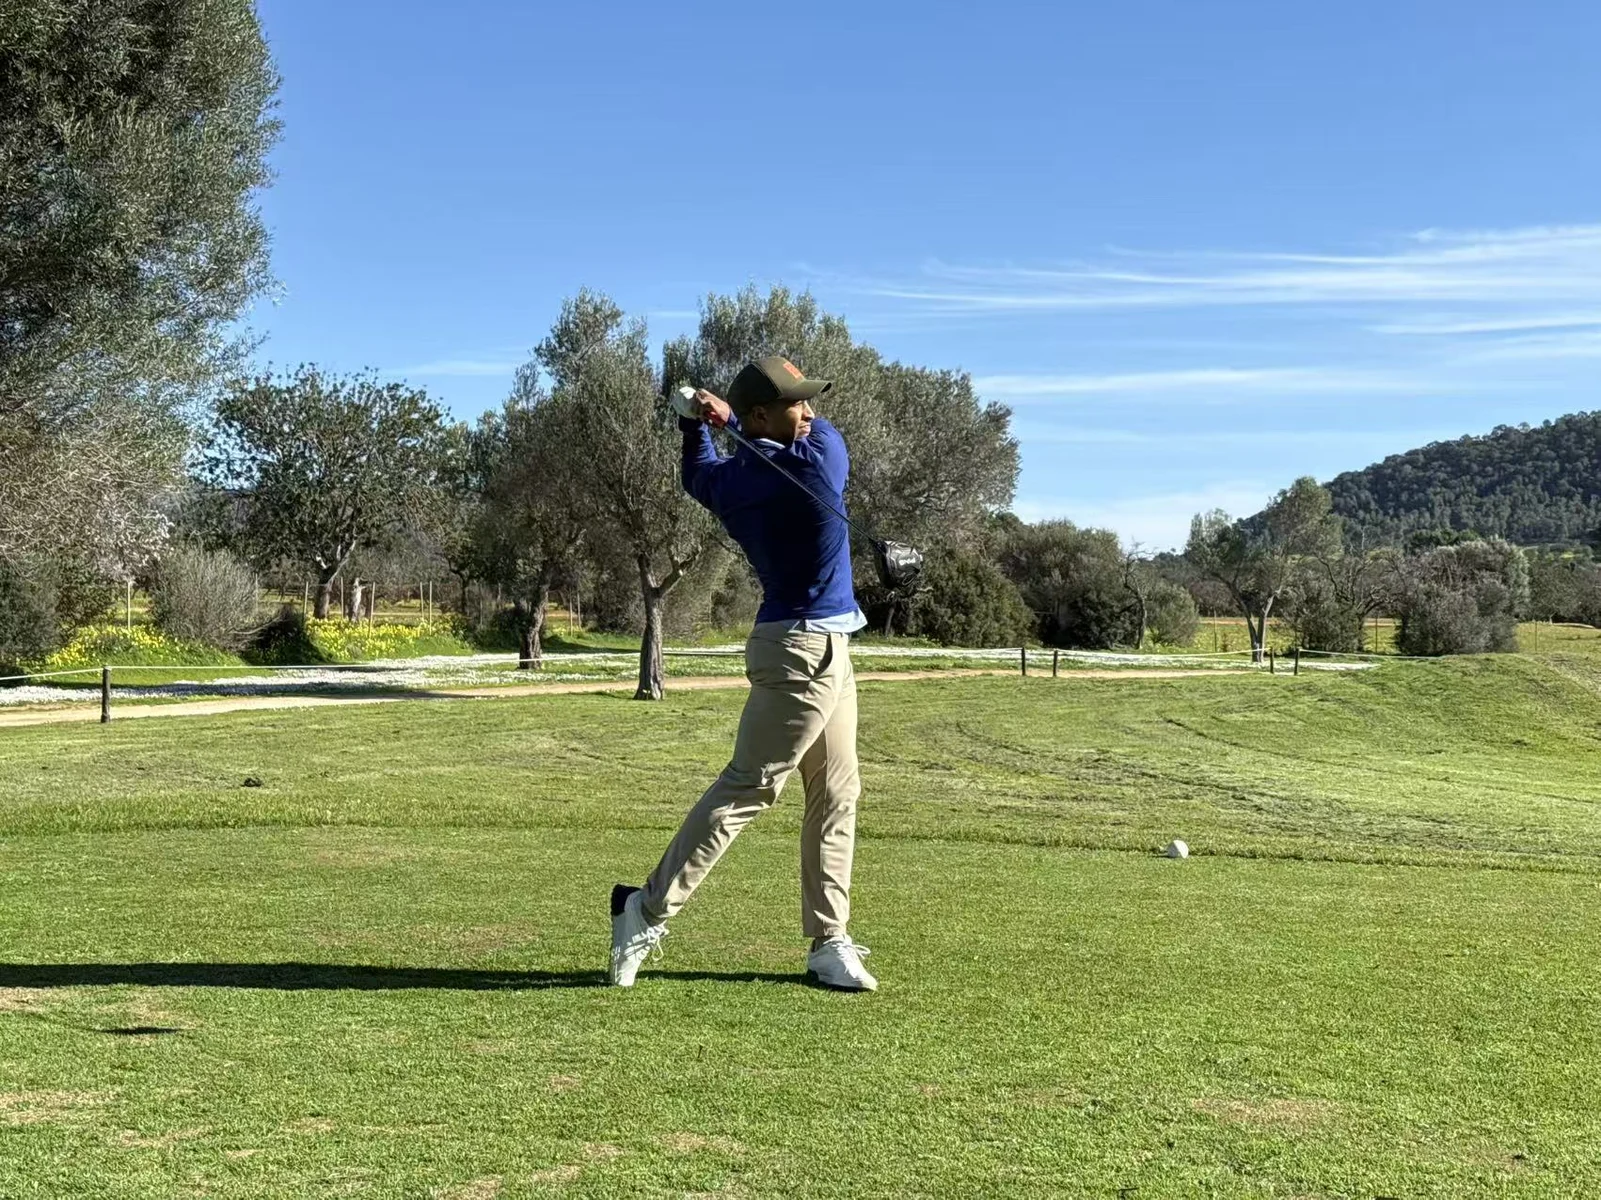
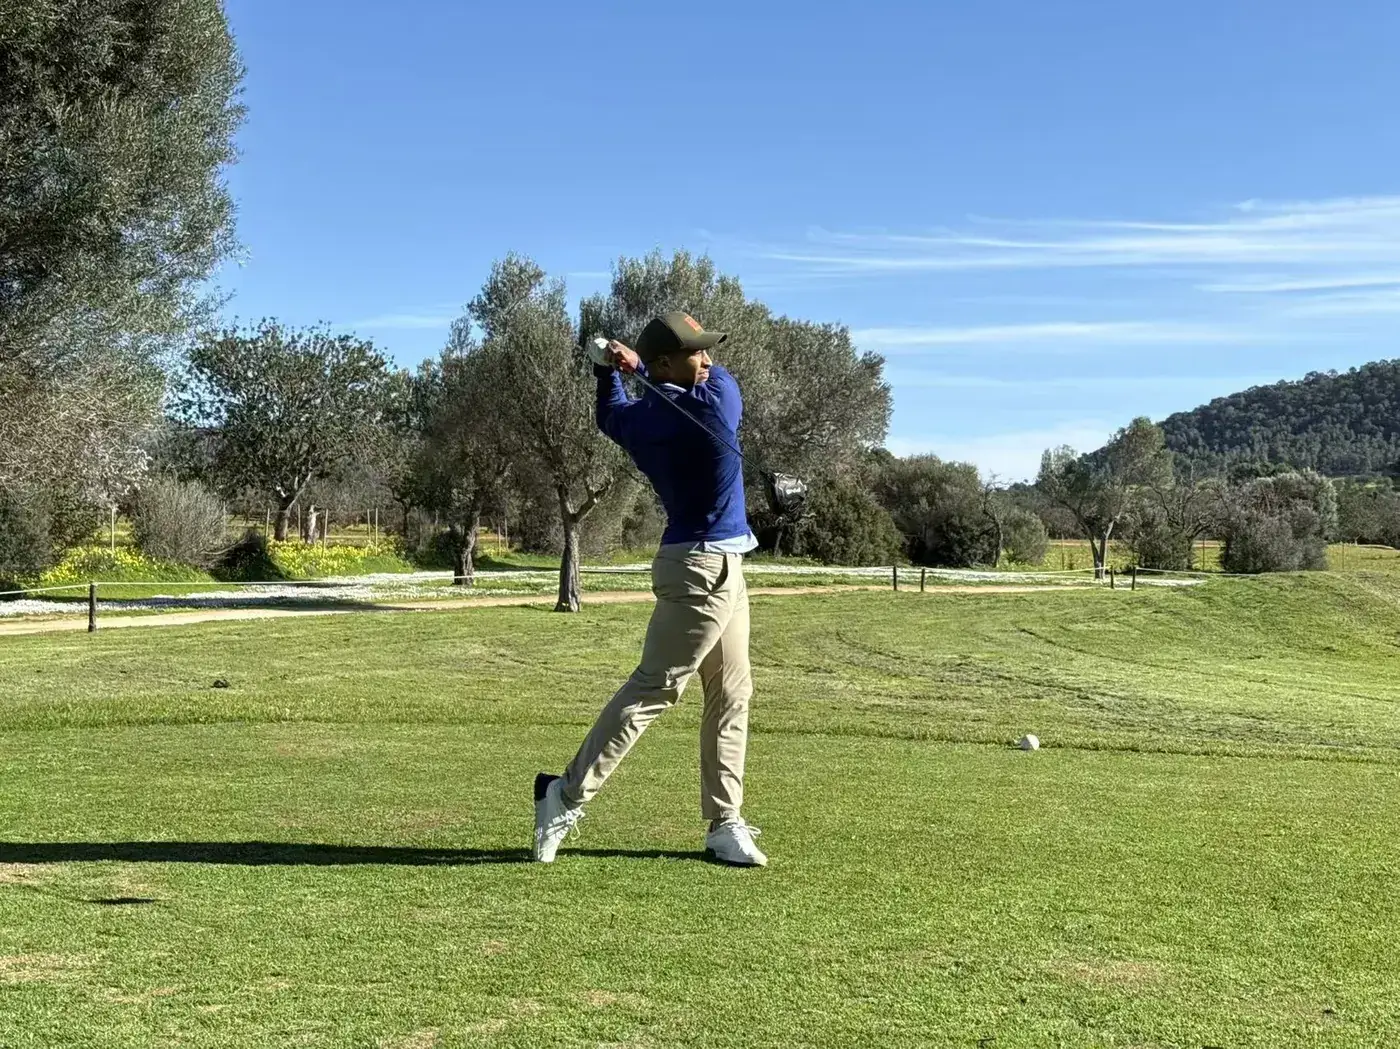
fix: body overflow-x clip for mobile carousel scroll; optimise hero images

diff --git a/src/styles/globals.css b/src/styles/globals.css
@@ -997,7 +997,7 @@ body {
   font-weight: 300;
   color: var(--charcoal);
   background: var(--white);
-  overflow-x: hidden;
+  overflow-x: clip;
   background-image:
     radial-gradient(circle at top, rgba(212,176,104,0.07), transparent 26%),
     linear-gradient(180deg, rgba(247,244,239,0.92) 0%, #ffffff 28%);
@@ -1723,6 +1723,9 @@ body {
 .cred-logo-bar__title { font-family: 'Cormorant Garamond', serif; font-size: 1.05rem; font-weight: 500; color: var(--deep); line-height: 1.3; margin: 0; }
 .cred-logo-bar__sub { font-family: 'Jost', sans-serif; font-size: 9px; letter-spacing: 0.12em; text-transform: uppercase; color: var(--taupe); margin: 0; }
 .cred-logo-bar__note { display: none; }
+/* Compact version for homepage — smaller logos, less vertical height */
+.cred-logo-bar--compact .cred-logo-bar__item { min-height: 110px; padding: 0.6rem 0.9rem; }
+.cred-logo-bar--compact .cred-logo-bar__img { width: min(140px, 90%); max-height: 90px; }
 
 /* Credentials section — light background, clean cells, full-colour logos */
 .home-credentials { background: var(--cream); padding: 96px 40px; }
